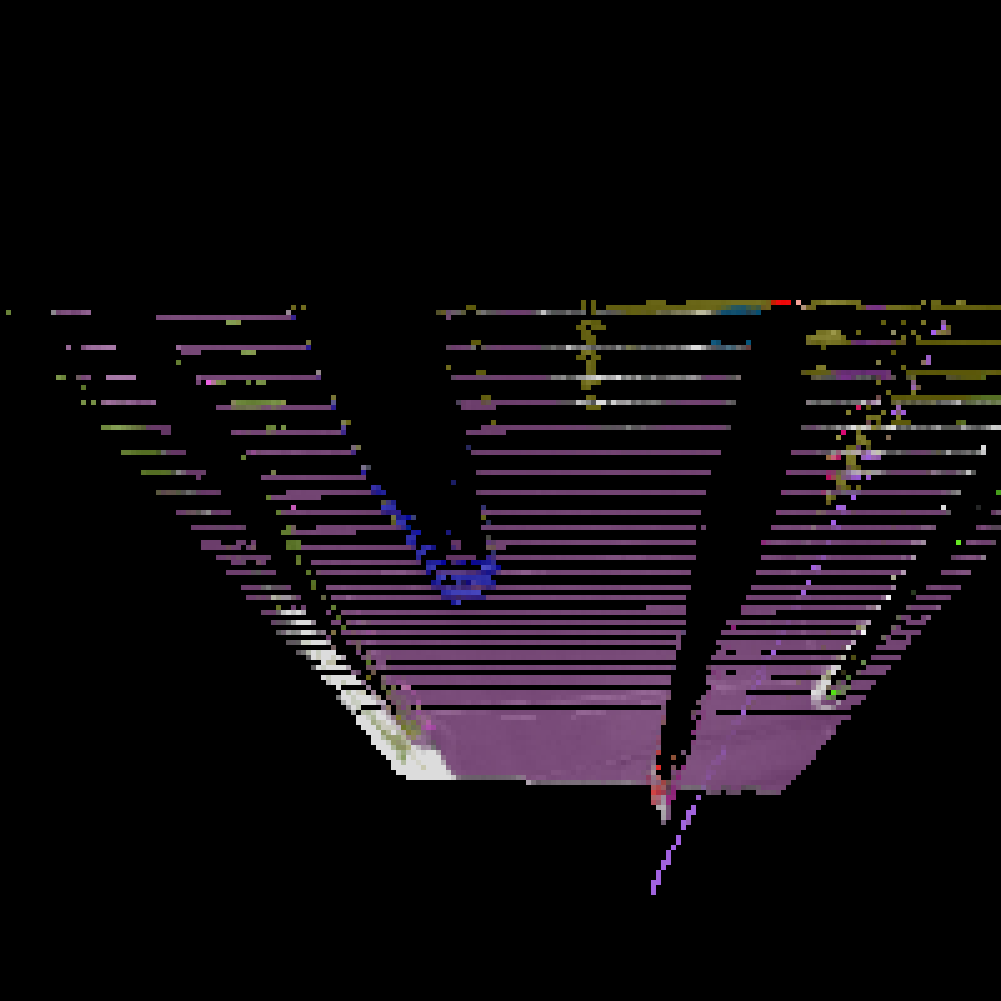
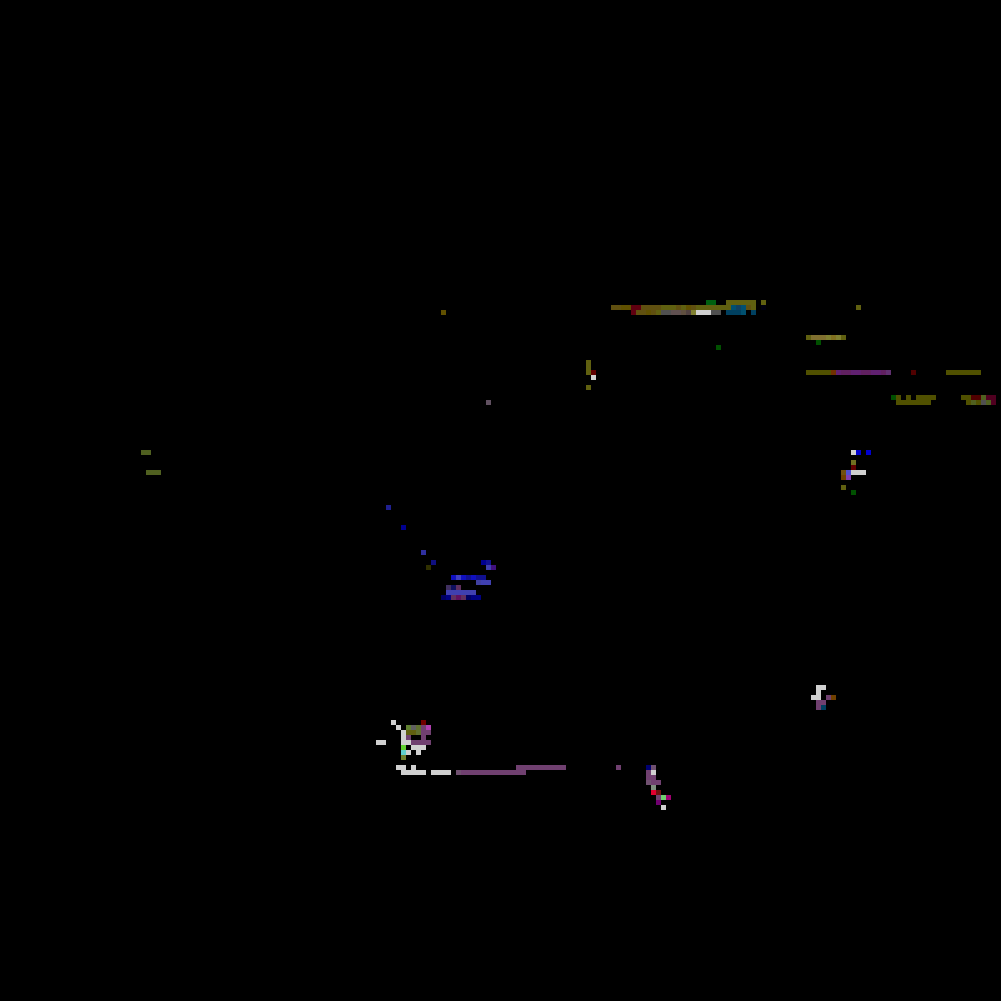
Idea 2

Changed region(s): [[0.0619, 0.2787, 1.0, 0.8981], [0.0619, 0.3097, 0.0929, 0.3407]]

diff --git a/3dVis/GenerateOccupancyMap.py b/3dVis/GenerateOccupancyMap.py
@@ -27,64 +27,59 @@ for i in range(9, len(Lines)):
         image[1000 - pixels[1]][1000 - pixels[2]][2] = b
 
 
-cv2.imwrite('occupancy_map0'+'.png', image)
+cv2.imwrite('./maps/occupancy_map0'+'.png', image)
 
-actual_res = 15
-cut_off = 8
+actual_res = 20
+cut_off = 20
+color_range = 16
 
-for res in range(5, actual_res):
+for res in range(4, actual_res):
+    print("Res : ", res)
     for i in range(int(1000/res)):
         for j in range(int(1000/res)):
 
             seg = image[i*res:(i+1)*res,j*res:(j+1)*res,0]
-            count = 0
-            total = 0
-
+            color_array = [0 for x in range(int(256/color_range))]
+            color_array[0] = -10000
             for x in range(seg.shape[0]):
                 for y in range(seg.shape[1]):
-                    if seg[x][y] != 0 :
-                        count += 1
-                    total += seg[x][y]
+                    color_array[int(seg[x][y]/color_range)] += 1
                     
-            if count != 0 :
-                r = total/count
-                if count > int(res*res/cut_off) :
-                    image[i*res:(i+1)*res,j*res:(j+1)*res,0] = int(r)
-                else :
-                    image[i*res:(i+1)*res,j*res:(j+1)*res,0] = 0
+                    
+            r = color_array.index(max(color_array)) * 16
+            if max(color_array) > int(res*res/cut_off) :
+                image[i*res:(i+1)*res,j*res:(j+1)*res,0] = int(r)
+            else :
+                image[i*res:(i+1)*res,j*res:(j+1)*res,0] = 0
 
 
 
             seg = image[i*res:(i+1)*res,j*res:(j+1)*res,1]
-            count = 0
-            total = 0
-
+            color_array = [0 for x in range(int(256/color_range))]
+            color_array[0] = -10000
             for x in range(seg.shape[0]):
                 for y in range(seg.shape[1]):
-                    if seg[x][y] != 0 :
-                        count += 1
-                    total += seg[x][y]
-            if count != 0 :
-                g = total/count
-                if count > int(res*res/cut_off) :
-                    image[i*res:(i+1)*res,j*res:(j+1)*res,1] = int(g)
-                else :
-                    image[i*res:(i+1)*res,j*res:(j+1)*res,1] = 0
+                    color_array[int(seg[x][y]/color_range)] += 1
+                    
+            g = color_array.index(max(color_array)) * 16
+            if max(color_array) > int(res*res/cut_off) :
+                image[i*res:(i+1)*res,j*res:(j+1)*res,1] = int(g)
+            else :
+                image[i*res:(i+1)*res,j*res:(j+1)*res,1] = 0
 
 
             seg = image[i*res:(i+1)*res,j*res:(j+1)*res,2]
-            count = 0
-            total = 0
-
+            color_array = [0 for x in range(int(256/color_range))]
+            color_array[0] = -10000
             for x in range(seg.shape[0]):
                 for y in range(seg.shape[1]):
-                    if seg[x][y] != 0 :
-                        count += 1
-                    total += seg[x][y]
-            if count != 0 :
-                b = total/count
-                if count > int(res*res/cut_off):
-                    image[i*res:(i+1)*res,j*res:(j+1)*res,2] = int(b)
-                else :
-                    image[i*res:(i+1)*res,j*res:(j+1)*res,2] = 0
-    cv2.imwrite('occupancy_map'+str(res)+'.png', image)
+                    color_array[int(seg[x][y]/color_range)] += 1
+            b = color_array.index(max(color_array)) * 16
+            if max(color_array) > int(res*res/cut_off):
+                image[i*res:(i+1)*res,j*res:(j+1)*res,2] = int(b)
+            else :
+                image[i*res:(i+1)*res,j*res:(j+1)*res,2] = 0
+                
+                
+                
+    cv2.imwrite('./maps/occupancy_map'+str(res)+'.png', image)
